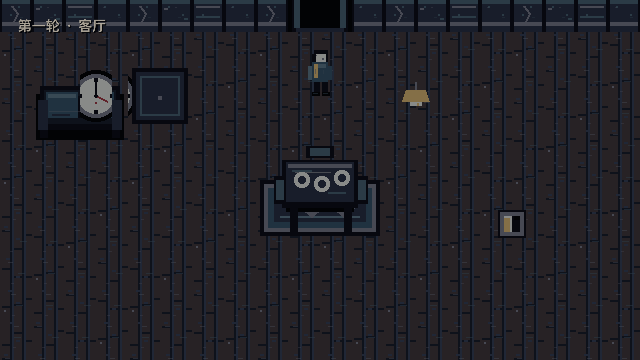
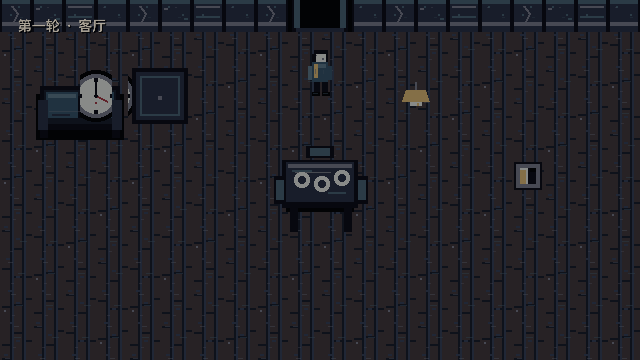
feat: implement first-loop memory fragments

Changed region(s): [[0.4062, 0.4889, 0.5938, 0.6722], [0.7812, 0.5806, 0.8438, 0.6722], [0.7812, 0.4278, 0.8438, 0.55]]

diff --git a/docs/ROADMAP.md b/docs/ROADMAP.md
@@ -28,7 +28,7 @@
 
 ## M1：灰盒双轮流程
 
-状态：**进行中（F-01 至 F-04、G-01 至 G-04 完成；正在进入 N-01）**
+状态：**进行中（F-01 至 F-04、G-01 至 G-04、N-01 完成；正在进入 N-02/N-03）**
 
 预计：2–4 个集中开发日
 

diff --git a/README.md b/README.md
@@ -72,6 +72,7 @@ flowchart LR
 - [x] Godot 4.6.3 Mac 开发基线与 Windows x86_64 导出链
 - [x] 设置持久化、GameState 不变量与中文分页文本底座
 - [x] Godot 五房间灰盒、移动碰撞、房间相机、稳定交互与首房间记录
+- [x] 三个第一轮碎片、六种发现顺序与幂等复读
 - [ ] 场景组装、运行时美术验收、shader 与声音实装
 - [ ] 五人不知情盲测
 

diff --git a/docs/DEVELOPMENT.md b/docs/DEVELOPMENT.md
@@ -35,6 +35,7 @@ GODOT="$HOME/Applications/Godot-4.6.3-stable.app/Contents/MacOS/Godot"
 "$GODOT" --headless --path . --script tests/smoke/playable_bedroom_smoke.gd
 "$GODOT" --headless --path . --script tests/smoke/house_layout_smoke.gd
 "$GODOT" --headless --path . --script tests/smoke/interaction_room_smoke.gd
+"$GODOT" --headless --path . --script tests/smoke/fragment_flow_smoke.gd
 ```
 
 测试分别覆盖项目契约、设置损坏恢复与重载、六种碎片顺序和状态不变量、中文两页文本的快进/输入保护，以及卧室移动—调查—文本—恢复控制闭环。